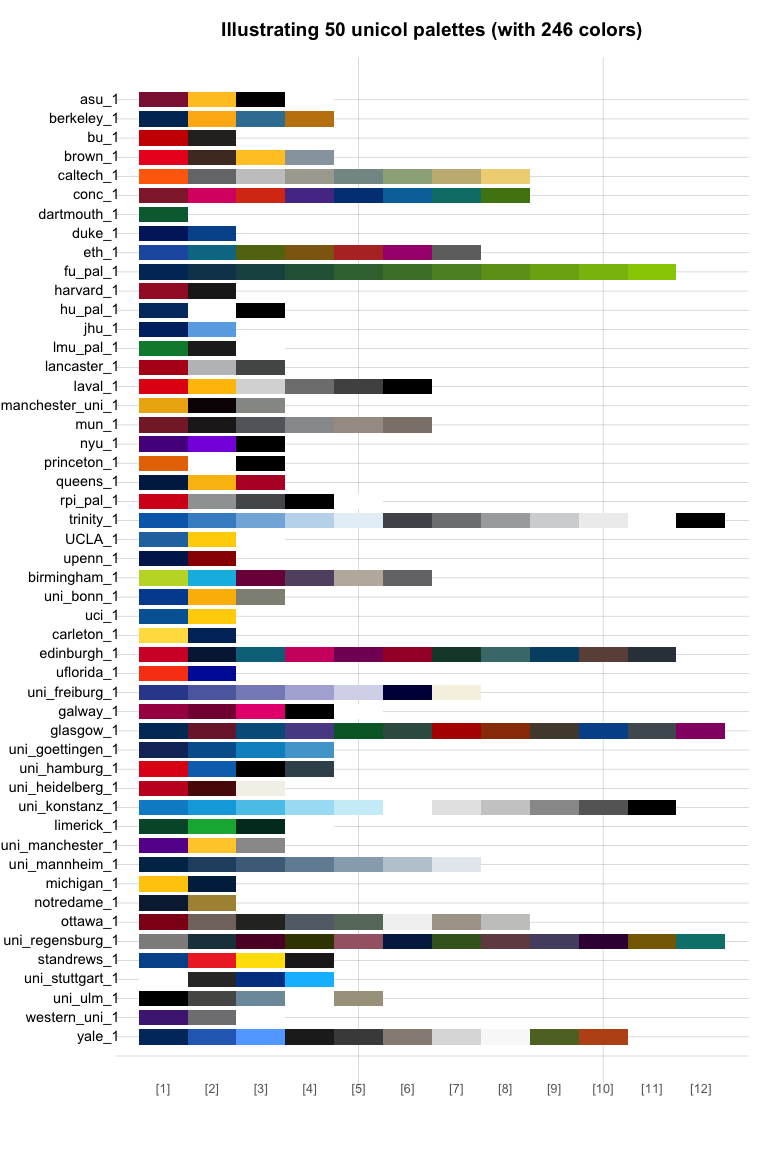
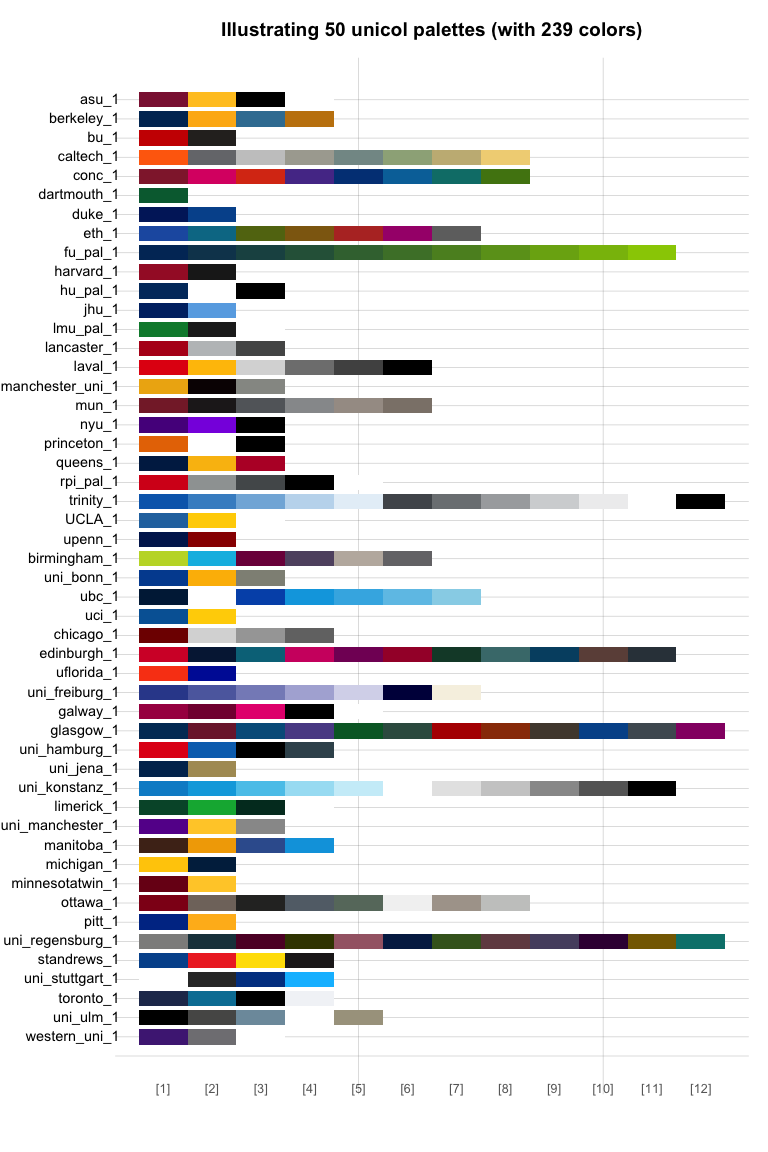
revise initial headings

diff --git a/README.md b/README.md
@@ -1,21 +1,17 @@
 
 <!-- README.md is generated from README.Rmd. Please always edit the .Rmd file (and generate the .md file from it) -->
-
-# unicol 0.0.0.9030
-
 <!-- badges: start -->
 <!-- badges: end -->
+
+# unicol 0.0.0.9030 <img src = "./inst/pix/pkg_unicol_s.png" align = "right" alt = "unicol::" width = "200px" />
+
 <!-- unicol pkg logo and link: -->
-
-<a href = "https://github.com/hneth/unicol">
-<img src = "./inst/pix/pkg_unicol_s.png" alt = "unicol::" align = "right" width = "200px" style = "width: 200px; float: right; border:0;"/>
-</a>
-
+<!-- <a href = "https://github.com/hneth/unicol"> -->
+<!-- <img src = "./inst/pix/pkg_unicol_s.png" alt = "unicol::" align = "right" width = "200px" style = "width: 200px; float: right; border:0;"/> -->
+<!-- </a> -->
 <!-- Slogan: -->
 
-The colors of your university.
-
-## Objectives
+### The colors of your university
 
 <!-- Vision / Mission: -->
 
@@ -23,7 +19,7 @@ The R package **unicol** contains the colors and color palettes of
 various universities. We collect and provide a diverse range of color
 palettes for creating scientific visualizations.
 
-<!-- Goal: -->
+<!-- Goal / Objectives: -->
 
 Our primary goal is to make it simple to create beautiful visualizations
 that are in accordance with institutional style guides. Assuming that
@@ -84,24 +80,23 @@ The **unicol** package currently provides **202 color palettes** from
 (See the vignette on **Color palettes** for an overview of all colors
 and institutions.)
 
-## Examples
-
+<!-- ## Examples  -->
 <!-- Goal: Show some color palettes and how they can be used: -->
 
-### Color palettes
+### Examples of color palettes
 
 <!-- The **unicol** package currently contains **202\ color palettes** from **86\ institutions**.  -->
 <!-- Example 1: Random pals (from vignette color_pals.Rmd): -->
 <!-- Show as a table: -->
 <!-- Show as a figure: -->
 
-**Figure 1** illustrates 50 random color palettes (with 246 colors):
+**Figure 1** illustrates 50 random color palettes (with 239 colors):
 
 <div class="figure" style="text-align: center">
 
-<img src="man/figures/README-unicol-pals-example-1-figure-1.png" alt="Figure 1: A sample of 50 unicol palettes (containing 246 colors)." width="90%" />
+<img src="man/figures/README-unicol-pals-example-1-figure-1.png" alt="Figure 1: A sample of 50 unicol palettes (containing 239 colors)." width="90%" />
 <p class="caption">
-Figure 1: A sample of 50 unicol palettes (containing 246 colors).
+Figure 1: A sample of 50 unicol palettes (containing 239 colors).
 </p>
 
 </div>
@@ -190,6 +185,6 @@ it in future versions of the **unicol** package.
 
 <!-- Footer: -->
 
-\[File `README.Rmd` updated on 2023-08-07.\]
+\[File `README.Rmd` updated on 2023-08-08.\]
 
 <!-- eof. -->
